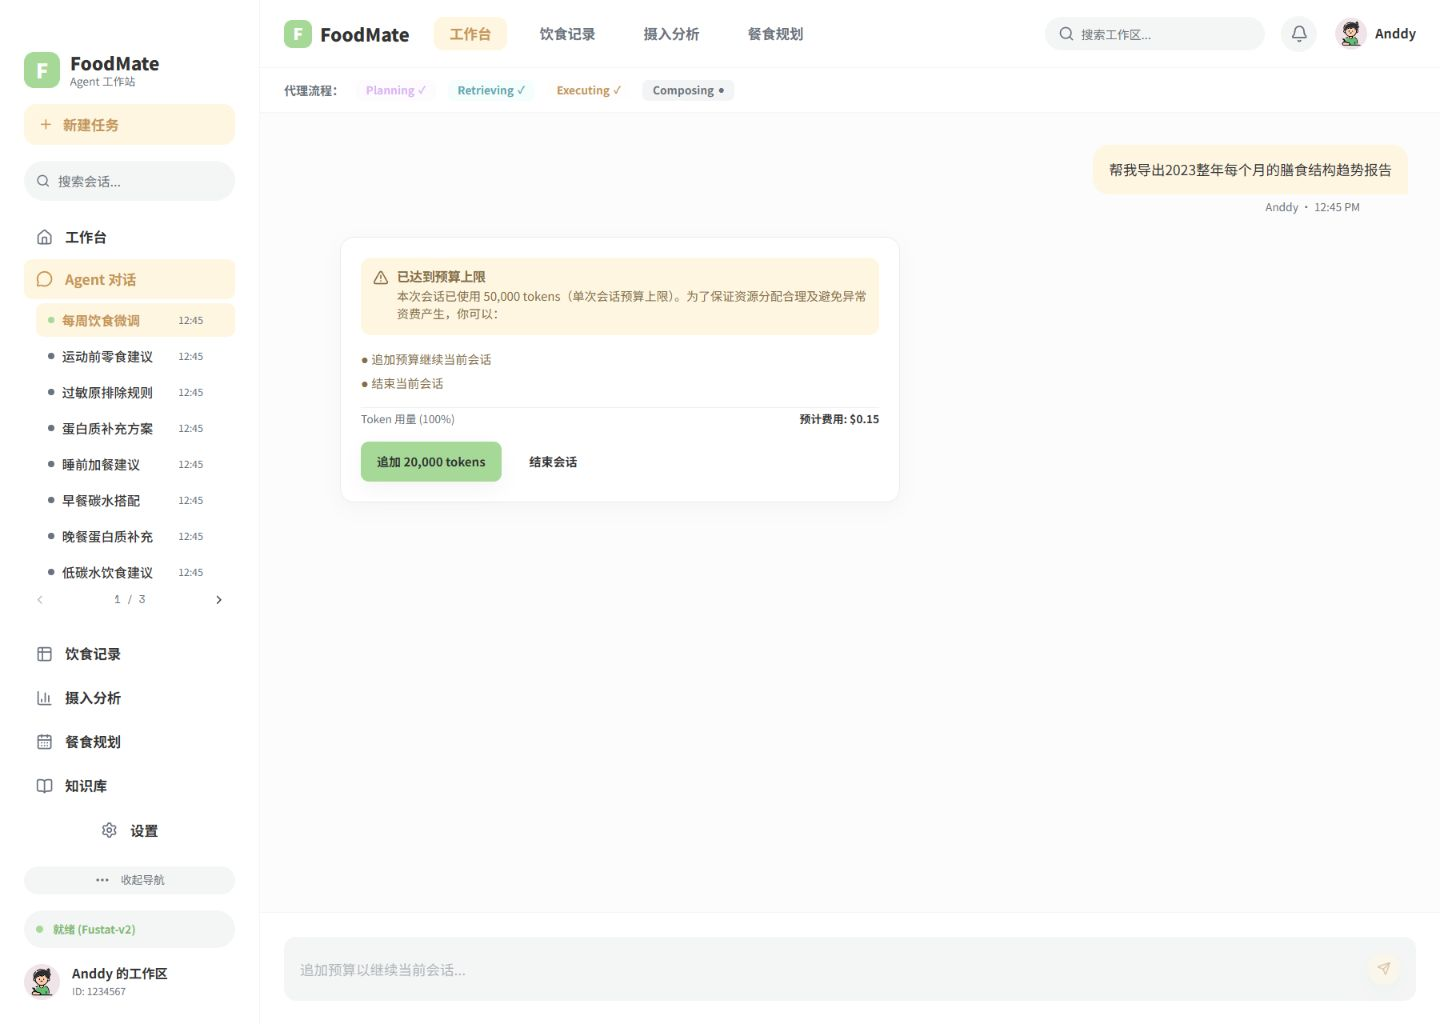
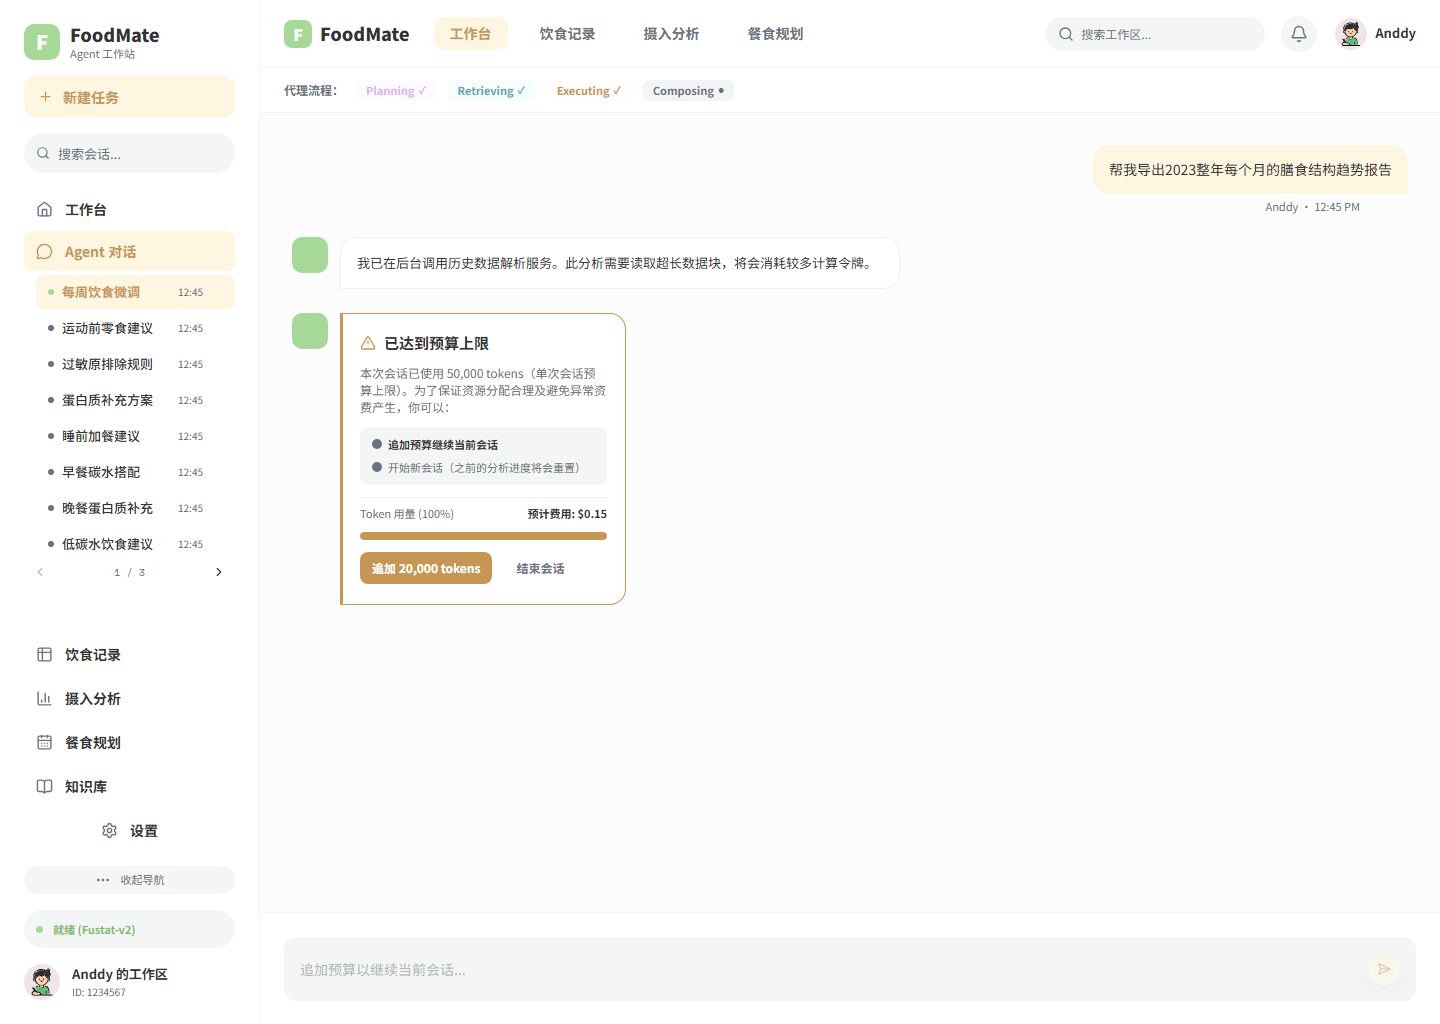
fix(预算状态): 对齐预算上限交互卡片

diff --git a/foodmate-ui/src/pages/ChatPage/ChatPage.tsx b/foodmate-ui/src/pages/ChatPage/ChatPage.tsx
@@ -1306,33 +1306,67 @@ function AgentStatePage({ state }: { state: AgentFixtureState }) {
     }
     if (state === 'budget-limit') {
       return (
-        <div className={styles.fixtureCardWrap}>
-          <Card className={styles.fixtureCard}>
-            <Alert variant="warning" className={styles.fixtureAlert}>
-              <AlertTriangle aria-hidden="true" />
-              <AlertTitle>已达到预算上限</AlertTitle>
-              <AlertDescription>
+        <>
+          <div className={styles.fixtureAssistantRow}>
+            <span className={styles.fixtureAgentAvatar} aria-hidden="true" />
+            <p className={styles.fixtureBudgetIntro}>
+              我已在后台调用历史数据解析服务。此分析需要读取超长数据块，将会消耗较多计算令牌。
+            </p>
+          </div>
+          <div className={`${styles.fixtureAssistantRow} ${styles.fixtureBudgetRowWrap}`}>
+            <span className={styles.fixtureAgentAvatar} aria-hidden="true" />
+            <Card className={`${styles.fixtureCard} ${styles.fixtureBudgetCard}`}>
+              <div className={styles.fixtureBudgetTitle}>
+                <AlertTriangle aria-hidden="true" />
+                <h2>已达到预算上限</h2>
+              </div>
+              <p className={styles.fixtureBudgetDescription}>
                 本次会话已使用 50,000 tokens（单次会话预算上限）。为了保证资源分配合理及避免异常资费产生，你可以：
-              </AlertDescription>
-            </Alert>
-            <div className={styles.fixtureChoiceList}>
-              <span>● 追加预算继续当前会话</span>
-              <span>● 结束当前会话</span>
-            </div>
-            <div className={styles.fixtureBudgetRow}>
-              <span>Token 用量 (100%)</span>
-              <strong>预计费用: $0.15</strong>
-            </div>
-            <div className={styles.fixtureActions}>
-              <Button disabled={action === 'pending'} onClick={() => void extendBudget()}>
-                追加 20,000 tokens
-              </Button>
-              <Button disabled={action === 'pending'} variant="ghost" onClick={() => void endBudgetSession()}>
-                结束会话
-              </Button>
-            </div>
-          </Card>
-        </div>
+              </p>
+              <div className={styles.fixtureChoiceList}>
+                <span>
+                  <i aria-hidden="true" />
+                  <strong>追加预算继续当前会话</strong>
+                </span>
+                <span>
+                  <i aria-hidden="true" />
+                  开始新会话（之前的分析进度将会重置）
+                </span>
+              </div>
+              <div className={styles.fixtureBudgetRow}>
+                <span>Token 用量 (100%)</span>
+                <strong>预计费用: $0.15</strong>
+              </div>
+              <div
+                aria-label="预算用量 100%"
+                aria-valuemax={100}
+                aria-valuemin={0}
+                aria-valuenow={100}
+                className={styles.fixtureBudgetProgress}
+                role="progressbar"
+              >
+                <span />
+              </div>
+              <div className={styles.fixtureActions}>
+                <Button
+                  className={styles.fixtureBudgetPrimaryButton}
+                  disabled={action === 'pending'}
+                  onClick={() => void extendBudget()}
+                >
+                  追加 20,000 tokens
+                </Button>
+                <Button
+                  className={styles.fixtureBudgetSecondaryButton}
+                  disabled={action === 'pending'}
+                  variant="ghost"
+                  onClick={() => void endBudgetSession()}
+                >
+                  结束会话
+                </Button>
+              </div>
+            </Card>
+          </div>
+        </>
       );
     }
     if (state === 'tool-failed-retryable') {

diff --git a/foodmate-ui/src/pages/ChatPage/ChatPage.module.css b/foodmate-ui/src/pages/ChatPage/ChatPage.module.css
@@ -1146,6 +1146,7 @@
 }
 
 .fixtureUserBubble {
+  min-width: 0;
   max-width: min(560px, calc(100% - 48px));
   padding: 16px;
   border-radius: 16px 16px 0;
@@ -1153,6 +1154,7 @@
   color: #333;
   font-size: 14px;
   line-height: 17px;
+  overflow-wrap: anywhere;
   text-align: left;
 }
 
@@ -1204,6 +1206,69 @@
 .fixtureAssistantRow .fixtureCard {
   min-width: 0;
   flex: 1 1 auto;
+}
+
+.fixtureBudgetIntro {
+  width: min(560px, calc(100% - 48px));
+  margin: 0;
+  padding: 16px;
+  border: 1px solid #eef1ef;
+  border-radius: 16px 16px 16px 0;
+  background: #fff;
+  color: #333;
+  font-size: 13px;
+  line-height: 18px;
+  white-space: nowrap;
+}
+
+.fixtureBudgetRowWrap {
+  width: 334px;
+  margin-top: 0;
+}
+
+.fixtureBudgetRowWrap .fixtureBudgetCard {
+  flex: 0 0 286px;
+}
+
+.fixtureAssistantRow .fixtureBudgetCard {
+  gap: 12px;
+  padding: 20px 18px 20px 17px;
+  border-color: #c79654;
+  border-left-width: 3px;
+  border-radius: 0 16px 16px 0;
+  background: #fff;
+  box-shadow: none;
+}
+
+.fixtureAssistantRow .fixtureBudgetCard .fixtureBudgetRow {
+  padding-top: 8px;
+  border-top: 1px solid #eef1ef;
+}
+
+.fixtureBudgetTitle {
+  display: flex;
+  align-items: center;
+  gap: 8px;
+}
+
+.fixtureBudgetTitle svg {
+  width: 16px;
+  height: 16px;
+  color: #c79654;
+}
+
+.fixtureBudgetTitle h2 {
+  margin: 0;
+  color: #c79654;
+  font-size: 14px;
+  line-height: 17px;
+}
+
+.fixtureBudgetDescription {
+  margin: 0;
+  color: #6b7280;
+  font-size: 12px;
+  line-height: 17px;
 }
 
 .fixtureCard {
@@ -1408,9 +1473,33 @@
 .fixtureChoiceList {
   display: grid;
   gap: 8px;
-  color: #876e45;
-  font-size: 12px;
-  line-height: 16px;
+  padding: 10px 12px;
+  border-radius: 8px;
+  background: #f4f6f5;
+  color: #6b7280;
+  font-size: 11px;
+  line-height: 15px;
+}
+
+.fixtureChoiceList span {
+  display: flex;
+  align-items: flex-start;
+  gap: 6px;
+}
+
+.fixtureChoiceList i {
+  display: block;
+  width: 10px;
+  height: 10px;
+  flex: 0 0 auto;
+  margin-top: 2px;
+  border-radius: 50%;
+  background: #6b7280;
+}
+
+.fixtureChoiceList strong {
+  color: #333;
+  font-weight: 700;
 }
 
 .fixtureBudgetRow {
@@ -1421,6 +1510,44 @@
 .fixtureBudgetRow strong {
   color: #333;
   font-weight: 600;
+}
+
+.fixtureBudgetProgress {
+  width: 100%;
+  height: 8px;
+  overflow: hidden;
+  border-radius: 999px;
+  background: #f4f6f5;
+}
+
+.fixtureBudgetProgress span {
+  display: block;
+  width: 100%;
+  height: 100%;
+  border-radius: inherit;
+  background: #c79654;
+}
+
+.fixtureBudgetCard .fixtureActions button {
+  height: 32px;
+  min-height: 32px;
+  border-radius: 8px;
+  padding: 0 12px;
+  font-size: 12px;
+}
+
+.fixtureBudgetPrimaryButton {
+  background: #c79654;
+  color: #fff;
+  box-shadow: none;
+}
+
+.fixtureBudgetPrimaryButton:hover {
+  background: #b98444;
+}
+
+.fixtureBudgetSecondaryButton {
+  color: #6b7280;
 }
 
 .fixtureCancelledWrap,
@@ -1550,12 +1677,15 @@
 
 @media (max-width: 720px) {
   .fixtureCardWrap,
-  .fixtureAssistantRow,
   .fixtureCancelledWrap,
   .fixtureReconnectWrap,
   .fixtureActionMessage,
   .connectionNotice {
     width: calc(100% - 48px);
+  }
+
+  .fixtureAssistantRow {
+    width: 100%;
   }
 
   .fixtureCardHeader,
@@ -1573,6 +1703,23 @@
 
   .fixtureDetails dd {
     text-align: left;
+  }
+
+  .fixtureBudgetIntro {
+    width: auto;
+    flex: 1 1 auto;
+    white-space: normal;
+  }
+
+  .fixtureBudgetRowWrap {
+    width: 100%;
+    max-width: 100%;
+  }
+
+  .fixtureBudgetRowWrap .fixtureBudgetCard {
+    flex: 1 1 auto;
+    width: calc(100% - 48px);
+    max-width: calc(100% - 48px);
   }
 }
 .fixtureAuxMessage {

diff --git a/foodmate-ui/src/pages/ChatPage/ChatPage.test.tsx b/foodmate-ui/src/pages/ChatPage/ChatPage.test.tsx
@@ -221,7 +221,9 @@ describe('ChatPage Agent remaining states', () => {
   it('renders budget limit choices and keeps the current Run action explicit', () => {
     renderState('budget-limit');
     expect(screen.getByRole('heading', { name: '已达到预算上限' })).toBeInTheDocument();
+    expect(screen.getByText(/我已在后台调用历史数据解析服务/)).toBeInTheDocument();
     expect(screen.getByText('Token 用量 (100%)')).toBeInTheDocument();
+    expect(screen.getByRole('progressbar', { name: '预算用量 100%' })).toHaveAttribute('aria-valuenow', '100');
     fireEvent.click(screen.getByRole('button', { name: '追加 20,000 tokens' }));
     expect(screen.getByRole('status')).toHaveTextContent('当前 Run');
   });
